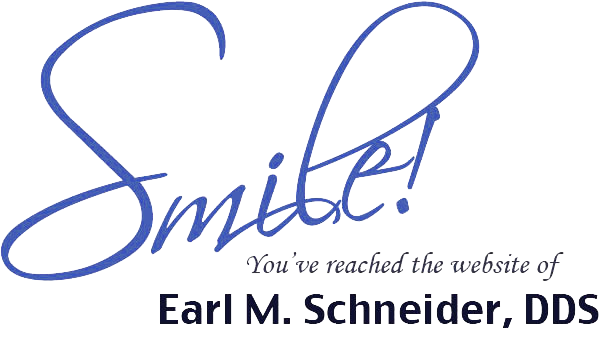
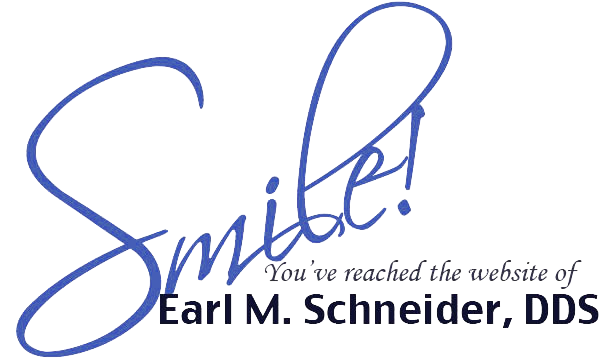
Added edited images for slideshow and background pattern.

Changed region(s): [[0.0, 0.0, 0.96, 1.0]]

diff --git a/sites/all/themes/glendental/css/layout-fixed.css b/sites/all/themes/glendental/css/layout-fixed.css
@@ -36,13 +36,16 @@ body {
 }
 
 #page {
-  margin-top:20px;
+
 }
 
 /*
  * Header
  */
-#header {
+.header-image{
+  background-image: url('smile-header2.png');
+  background-repeat: no-repeat;
+  background-position: top left;
 }
 
 #header .section {
@@ -80,9 +83,9 @@ body {
 }
 
 .sidebar-second #content {
-  width: 760px;
+  width: 480px;
   margin-left: 0; /* LTR */
-  margin-right: -760px; /* LTR */ /* Negative value of #content's width + left margin. */
+  margin-right: -480px; /* LTR */ /* Negative value of #content's width + left margin. */
 }
 
 .two-sidebars #content {
@@ -95,6 +98,7 @@ body {
   margin: 0;
   padding: 0px 20px 10px 20px;
 }
+
 
 /*
  * Navigation
@@ -140,8 +144,8 @@ body {
  */
 .region-sidebar-second {
   float: left; /* LTR */
-  width: 200px;
-  margin-left: 760px; /* LTR */ /* Width of content + sidebar-first. */
+  width: 480px;
+  margin-left: 480px; /* LTR */ /* Width of content + sidebar-first. */
   margin-right: -960px; /* LTR */ /* Negative value of .region-sidebar-second's width + left margin. */
   padding: 0; /* DO NOT CHANGE. Add padding or margin to .region-sidebar-second .section. */
 }

diff --git a/sites/all/themes/glendental/css/pages.css b/sites/all/themes/glendental/css/pages.css
@@ -15,6 +15,7 @@ body {
   margin: 0;
   padding: 0;
   background-color: #A62A2A;
+  background-image: url('argyle2.png');
 }
 
 #page-wrapper {
@@ -24,7 +25,7 @@ body {
 #page {
   background-color: #FFF8DC;
   font-family: "Lucida Sans Unicode", "Lucida Grande", sans-serif;
-  
+  margin-top:20px;
 }
 
 /*
@@ -52,10 +53,7 @@ body {
 }
 
 #header .content{
-  padding-top:10px;
-  background-image: url('smile-header2.png');
-  background-repeat: no-repeat;
-  background-position: top left;
+  
 }
 
 #logo /* Wrapping link for logo */ {

diff --git a/sites/all/themes/glendental/css/navigation.css b/sites/all/themes/glendental/css/navigation.css
@@ -17,6 +17,7 @@ li a.active {
 #navigation {
   /* overflow: hidden; /* Sometimes you want to prevent overlapping with main div. */
   background-color: #A62A2A;
+  padding:5px 0px 5px 5px;
 }
 
 #navigation ul.links, /* Main menu and secondary menu links */

diff --git a/modules/block/block.css b/modules/block/block.css
@@ -12,9 +12,7 @@
 }
 .block-region {
   background-color: #ff6;
-  margin-top: 4px;
-  margin-bottom: 4px;
-  padding: 3px;
+
 }
 a.block-demo-backlink,
 a.block-demo-backlink:link,

diff --git a/sites/all/themes/glendental/css/views-styles.css b/sites/all/themes/glendental/css/views-styles.css
@@ -3,4 +3,6 @@
  * Views Styling
  */
 
-
+.view-content{
+    padding:10px;
+}
